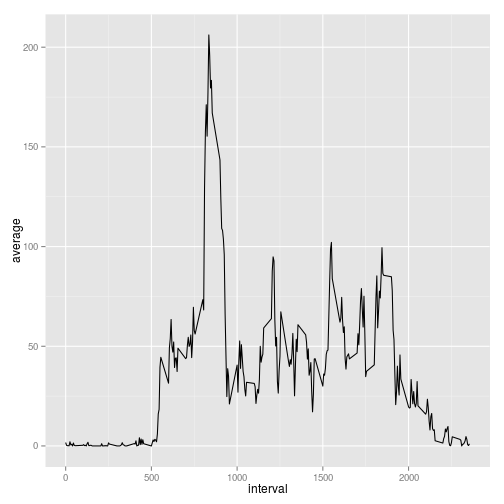
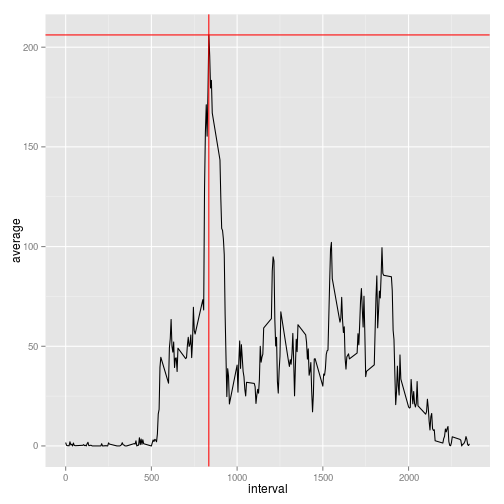
finished Imputing missing values

Changed region(s): [[0.0893, 0.0298, 0.9524, 0.9226]]

diff --git a/PA1.html b/PA1.html
@@ -216,7 +216,7 @@ print(activty.head, type=&quot;html&quot;)
 
 <!-- html table generated in R 3.1.2 by xtable 1.7-4 package -->
 
-<!-- Mon Feb  9 23:53:40 2015 -->
+<!-- Tue Feb 10 23:27:07 2015 -->
 
 <table border=1>
 <tr> <th>  </th> <th> steps </th> <th> date </th> <th> interval </th>  </tr>
@@ -260,10 +260,17 @@ steps.gg2 + geom_boxplot()+coord_flip()
 <h2>What is the average daily activity pattern?</h2>
 
 <pre><code class="r">steps2 &lt;- activity.dt[,.(average=mean(steps, na.rm=TRUE)),by=interval]
-ggplot(steps2, aes(x=interval, y=average)) + geom_line()
+
+
+interval.max &lt;- steps2[which.max(steps2[,average]),interval]
+average.max &lt;- steps2[which.max(steps2[,average]),average]
+
+ggplot(steps2, aes(x=interval, y=average))+geom_line()+
+    geom_vline(xintercept=interval.max, colour=&quot;red&quot;)+
+        geom_hline(yintercept=average.max, colour=&quot;red&quot;)
 </code></pre>
 
[2 lines of base64/hex data omitted]
 
 <h2>Imputing missing values</h2>
 

diff --git a/PA1.md b/PA1.md
@@ -21,7 +21,7 @@ print(activty.head, type="html")
 ```
 
 <!-- html table generated in R 3.1.2 by xtable 1.7-4 package -->
-<!-- Mon Feb  9 23:53:40 2015 -->
+<!-- Tue Feb 10 23:27:07 2015 -->
 <table border=1>
 <tr> <th>  </th> <th> steps </th> <th> date </th> <th> interval </th>  </tr>
   <tr> <td align="right"> 1 </td> <td align="right">  </td> <td> 2012-10-01 </td> <td align="right">   0 </td> </tr>
@@ -73,7 +73,14 @@ steps.gg2 + geom_boxplot()+coord_flip()
 
 ```r
 steps2 <- activity.dt[,.(average=mean(steps, na.rm=TRUE)),by=interval]
-ggplot(steps2, aes(x=interval, y=average)) + geom_line()
+
+
+interval.max <- steps2[which.max(steps2[,average]),interval]
+average.max <- steps2[which.max(steps2[,average]),average]
+
+ggplot(steps2, aes(x=interval, y=average))+geom_line()+
+    geom_vline(xintercept=interval.max, colour="red")+
+        geom_hline(yintercept=average.max, colour="red")
 ```
 
 ![plot of chunk unnamed-chunk-1](figure/unnamed-chunk-1-1.png) 
